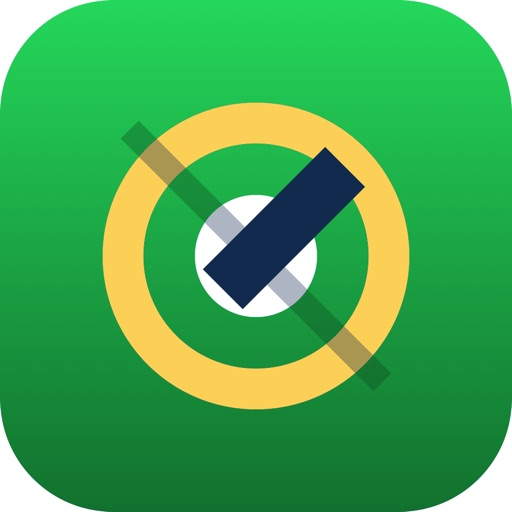
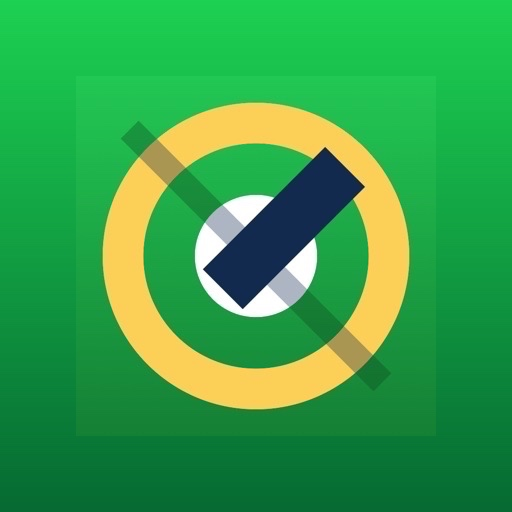
Add PlantValue and Moves to portfolio

diff --git a/index.html b/index.html
@@ -428,6 +428,39 @@
 </a>
         </div>
       </div>
+
+      <div class="bg-gradient-to-br from-gray-800 via-gray-900 to-black rounded-xl shadow-lg overflow-hidden transform hover:scale-105 transition duration-300 text-white h-full">
+        <img src="imgs/plantvalue.jpg" alt="PlantValue">
+        <div class="p-6">
+          <h3 class="text-xl font-semibold text-White-700">PlantValue</h3>
+          <p class="text-sm mt-2">Industrial plant dashboard app for real-time production data, operational monitoring, reports, alerts, and data-driven performance analysis.</p>
+          <p class="text-xs mt-2 text-gray-500">Category: Utilities, Productivity, Tools</p>
+          <a href="https://apps.apple.com/us/app/plantvalue/id1445572320"
+   target="_blank"
+   class="inline-block mt-4 bg-white text-black px-4 py-2 rounded-full text-sm font-semibold shadow-md hover:bg-gray-100 transition">
+  App Store
+</a>
+          <a href="https://play.google.com/store/apps/details?id=com.plantvalue.itech515"
+   target="_blank"
+   class="inline-block mt-4 bg-green-500 hover:bg-green-600 text-white px-4 py-2 rounded-full text-sm font-medium transition">
+  Play Store
+</a>
+        </div>
+      </div>
+
+      <div class="bg-gradient-to-br from-gray-800 via-gray-900 to-black rounded-xl shadow-lg overflow-hidden transform hover:scale-105 transition duration-300 text-white h-full">
+        <img src="imgs/moves-party.jpg" alt="Moves - Let's Party">
+        <div class="p-6">
+          <h3 class="text-xl font-semibold text-White-700">Moves - Let's Party</h3>
+          <p class="text-sm mt-2">Lifestyle and entertainment app for discovering, organizing, and attending parties and social events.</p>
+          <p class="text-xs mt-2 text-gray-500">Category: Lifestyle, Entertainment</p>
+          <a href="https://apps.apple.com/us/app/moves-lets-party/id1613953758"
+   target="_blank"
+   class="inline-block mt-4 bg-white text-black px-4 py-2 rounded-full text-sm font-semibold shadow-md hover:bg-gray-100 transition">
+  View on App Store
+</a>
+        </div>
+      </div>
       <!-- End of projects -->
     </div>
     <!-- View All Button -->
@@ -565,7 +598,7 @@
   <div class="max-w-4xl mx-auto px-6 text-center">
     <h2 class="text-3xl font-bold mb-4">About Me</h2>
     <p class="text-lg leading-relaxed">
-      I’m Moheed Zafar, a seasoned iOS developer with 6+ years of experience. I've built several high-quality, intuitive apps like <strong>Cruuz</strong>, <strong>Toprent</strong>, <strong>Zestlog</strong>, <strong>Track Focus</strong>, <strong>SmartMeal</strong>, <strong>Skedaddle Services</strong>, <strong>Revio - AI</strong>, and <strong>Account Check</strong>.
+      I’m Moheed Zafar, a seasoned iOS developer with 6+ years of experience. I've built several high-quality, intuitive apps like <strong>Cruuz</strong>, <strong>Toprent</strong>, <strong>Zestlog</strong>, <strong>Track Focus</strong>, <strong>SmartMeal</strong>, <strong>Skedaddle Services</strong>, <strong>Revio - AI</strong>, <strong>Account Check</strong>, <strong>PlantValue</strong>, and <strong>Moves - Let's Party</strong>.
     </p>
   </div>
   <!-- <div class="mt-5 flex flex-wrap justify-center space-x-6 text-sm font-medium text-primary">